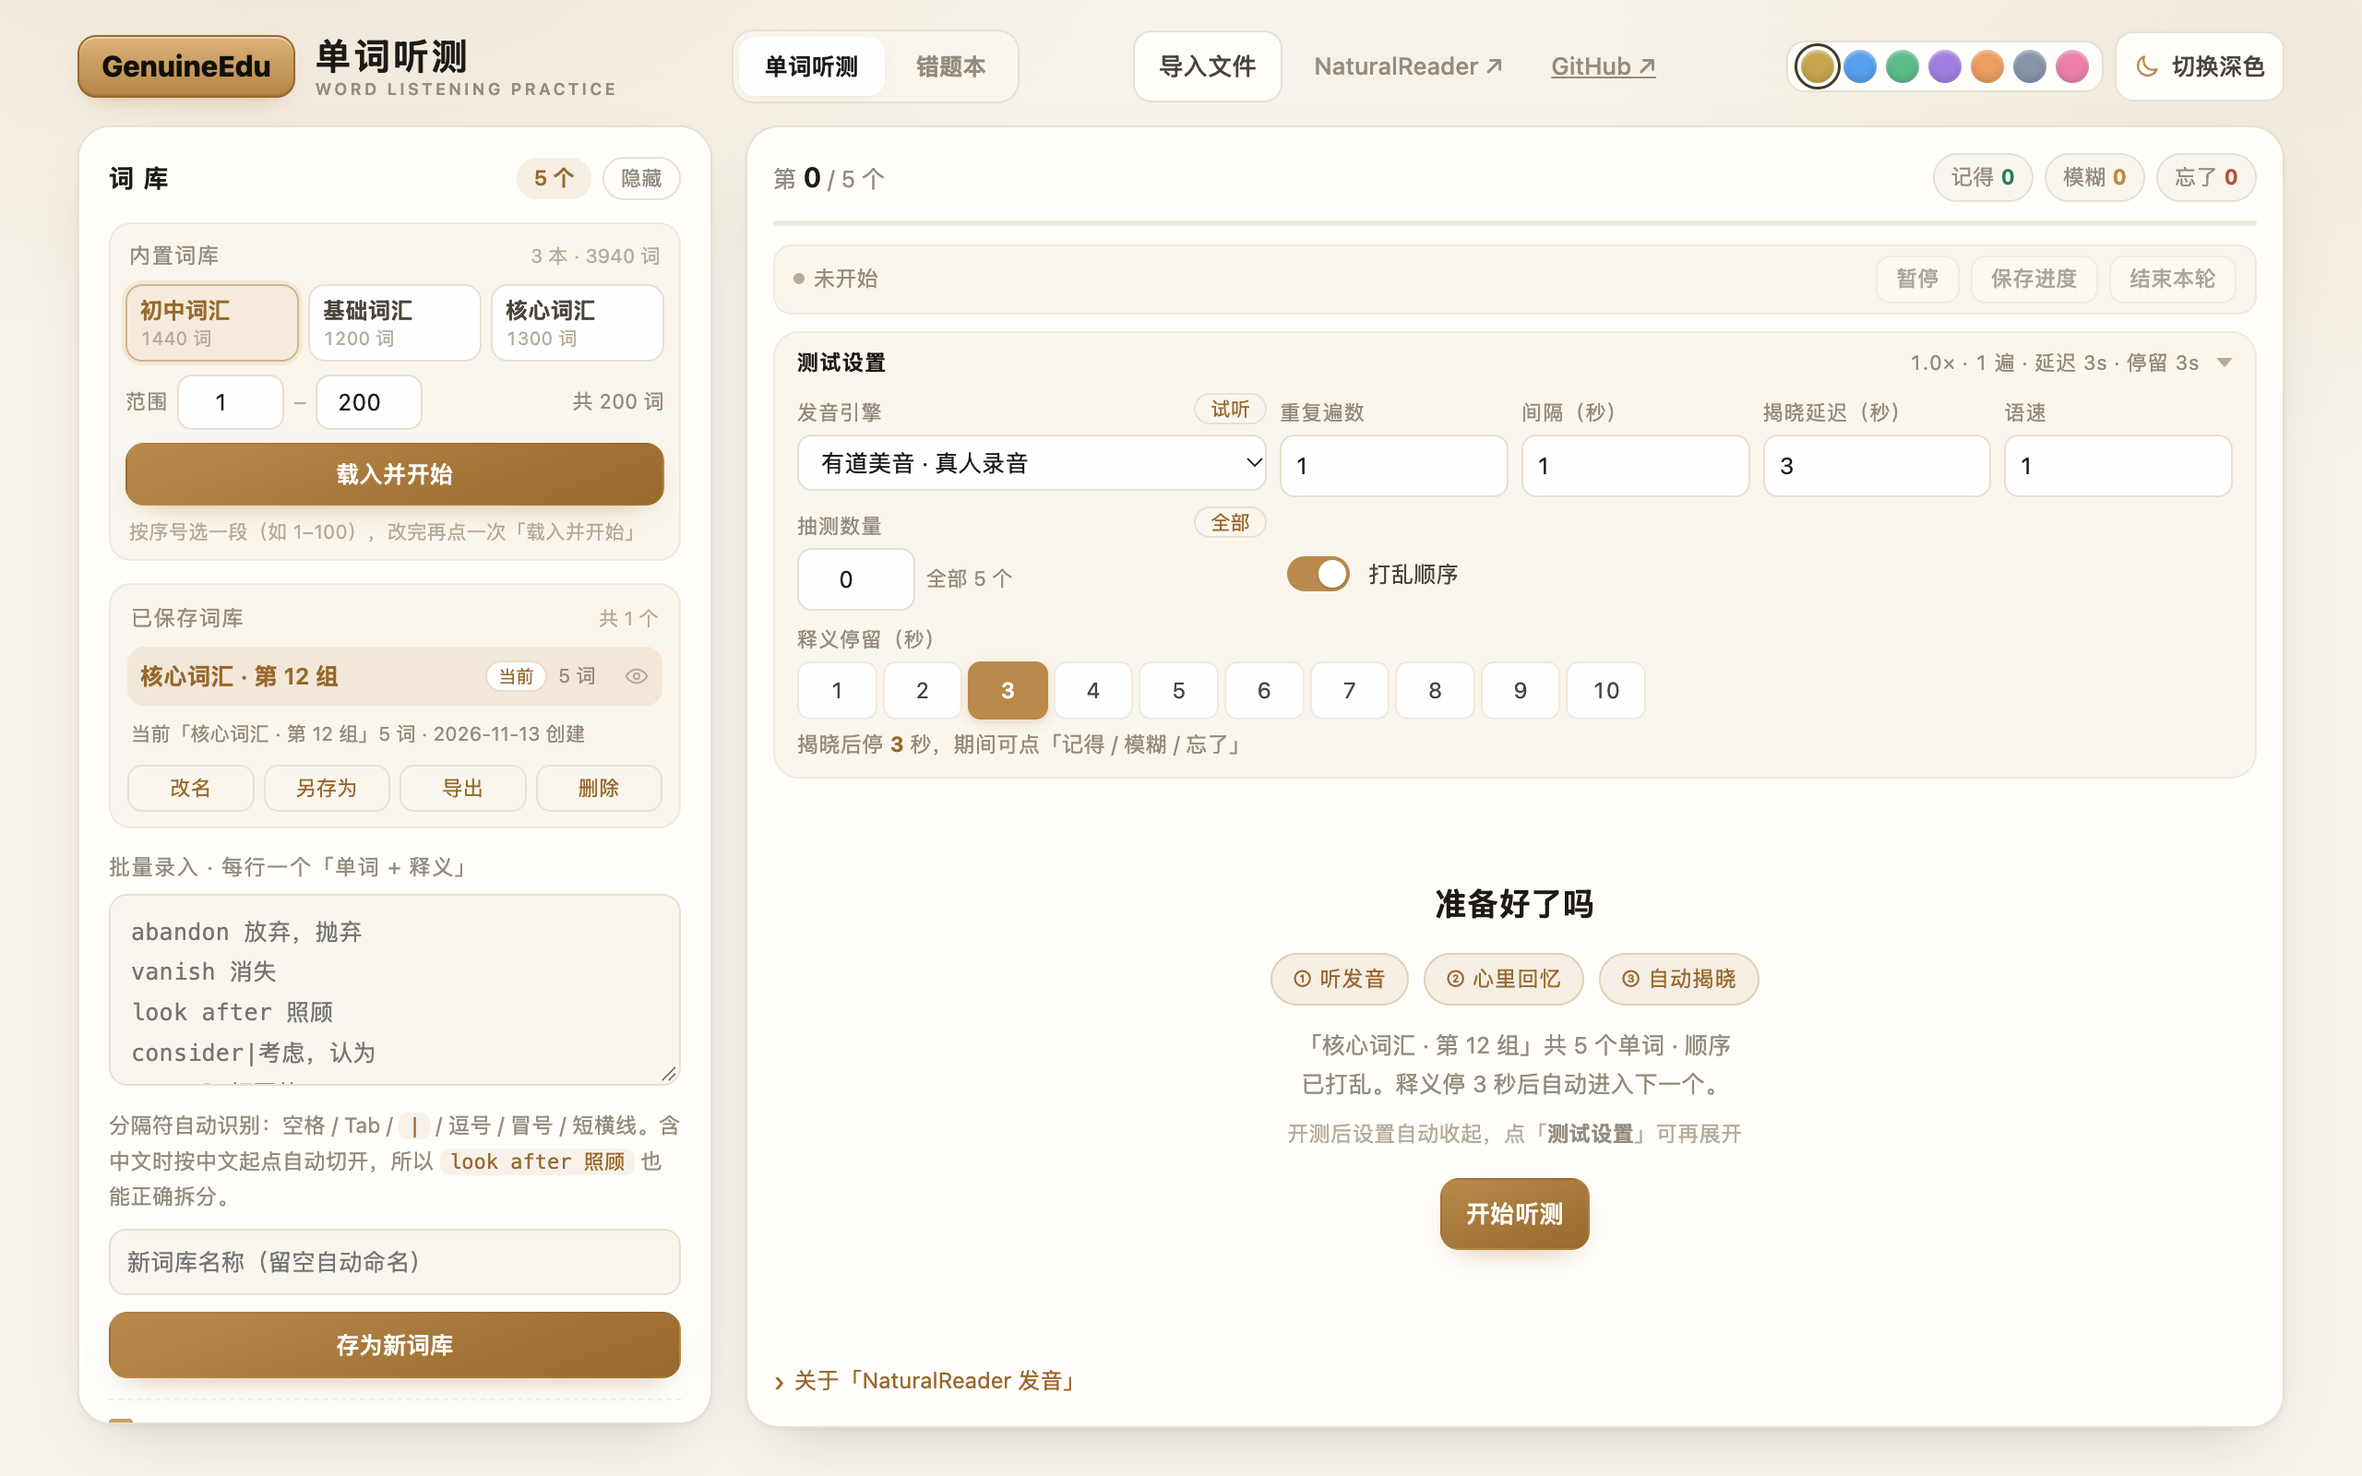
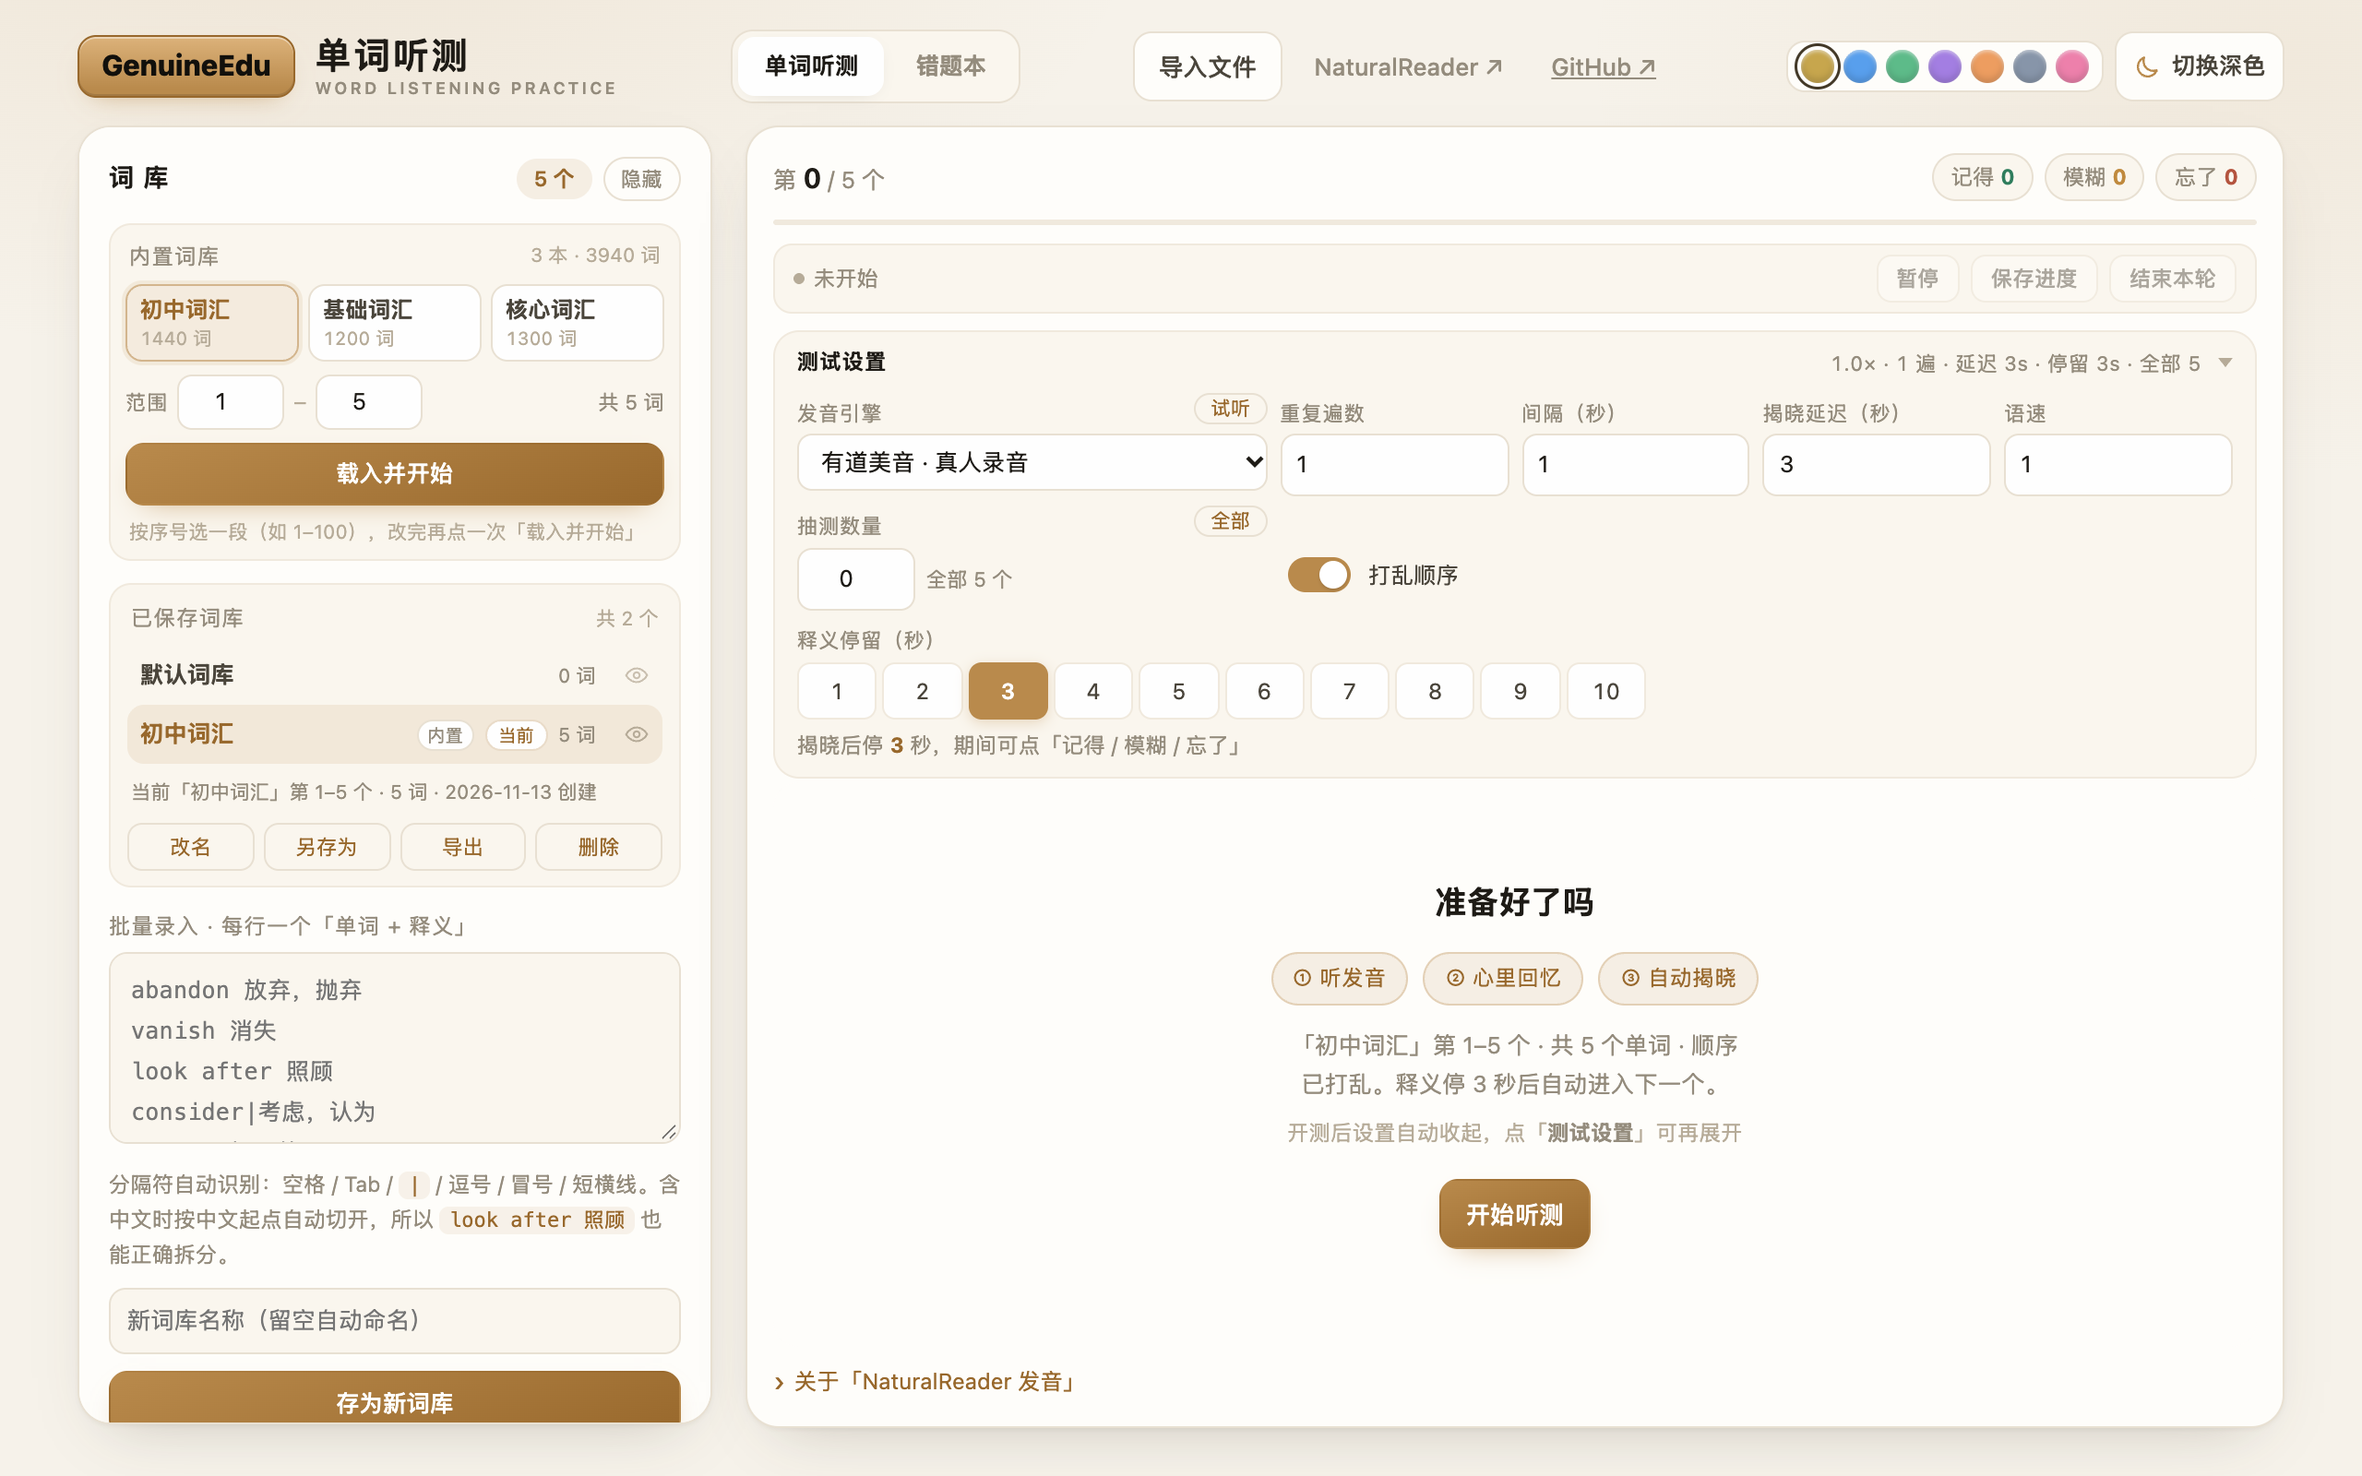
feat(settings): 内置词库的范围直接驱动右侧「测试设置」——改范围/换书即时生效，抽测数量上限收到范围大小
- 新增 poolSize()/effCount()：内置词库以「范围」为准，自定义词库以词库词数为准；测到一半不改口径
- 改范围即时重切片并刷新列表、词库信息、门板文案、「共 N 个」，不必先点「载入并开始」
- 抽测数量提示改为 全部 N 个 / 抽 n / N / 全抽 N 个；输入框 max 与显示值同步，范围临时收窄只封顶不覆盖用户填过的数，范围放大后原值回来
- 折叠标题摘要追加「· 全部 N / · 抽 n/N」，收起也能看到这轮抽多少
- 点书即按整本载入并切过去（开测中会先确认）；从「已保存词库」点回内置书时，上方选中的书与范围自动对齐
- 测试进行中改范围会退回本轮实际范围并提示，避免队列与口径不一致
- README 补充联动说明；重拍 preview / demo 两张配图

diff --git a/index.html b/index.html
@@ -1709,6 +1709,90 @@ function paintBiCount() {
   const mn = $("#biN");
   if (mn) mn.textContent = r.n ? "共 " + (r.b - r.a + 1) + " 词" : "";
 }
+/** 当前书 + 当前范围切出来的那一段词 */
+function biSlice() {
+  const book = BUILTIN[biBookIndex()];
+  if (!book) return { book: null, r: { a: 1, b: 0, n: 0 }, list: [] };
+  const r = biRange();
+  return {
+    book: book, r: r,
+    list: book.words.slice(r.a - 1, r.b).map(function (w) { return { w: w.w, d: w.d, x: w.x }; })
+  };
+}
+/** 这一轮实际会考到的词池：内置词库跟着「范围」走 ——
+ *  右侧「抽测数量」的总数、「共 N 个」都按这个算，范围一改就跟着改 */
+function poolSize() {
+  if (started && !finished) return words.length;   // 测到一半不改口径，以免总数和队列对不上
+  const lib = activeLib();
+  if (lib && lib.id === "bi:" + biBookIndex() && BUILTIN.length) {
+    const r = biRange();
+    if (r.n) return r.b - r.a + 1;
+  }
+  return words.length;
+}
+/** 抽测数量真正生效的值：不能超过本轮范围。
+ *  注意 cfg.count 里存的是用户填的「意图」，不因为范围临时收窄就被改掉 ——
+ *  下次范围放大，原来的数量还会回来 */
+function effCount() {
+  const size = poolSize();
+  const n = Math.max(0, parseInt(cfg.count, 10) || 0);
+  return size > 0 && n > size ? size : n;
+}
+/** 让左栏「内置词库」面板跟着当前词库走：
+ *  从「已保存词库」里点回某本内置书、或刷新后重新打开，选中的书和范围都对得上 */
+function syncPanelToLib() {
+  const lib = activeLib();
+  const m = lib && /^bi:(\d+)$/.exec(lib.id);
+  if (!m) return;
+  const i = Number(m[1]);
+  if (!(i >= 0 && i < BUILTIN.length)) return;
+  cfg.biBook = i;
+  if (lib.range) { cfg.biFrom = lib.range[0]; cfg.biTo = lib.range[1]; }
+  saveCfg();
+  renderBuiltin();
+}
+/** 改范围立刻把词库内容换成新范围（只在正用着这本内置词库时动手），
+ *  否则左边词数、右边总数、门板文案会各说各话 */
+function applyBuiltinRange() {
+  if (started && !finished) return;                  // 正在测就别动词库
+  const id = "bi:" + biBookIndex();
+  if (activeId !== id) return;                       // 只有正用着这本才跟着改
+  const lib = libs.find(function (l) { return l.id === id; });
+  if (!lib) return;
+  const s = biSlice();
+  if (!s.list.length) return;
+  lib.name = s.book.name;
+  lib.words = s.list;
+  lib.range = [s.r.a, s.r.b];
+  words = lib.words;
+  persistLibs();
+  renderLibs();
+  resetRoundUI();                                    // 里面会把右侧设置一起刷新
+}
+/** 范围/选书改动后的统一收尾：刷新左栏数字 + 右侧设置 + 门板文案 */
+function biEdited(force) {
+  renderBuiltin(force);        // 回写输入框（越界收敛）并更新「共 N 词」
+  if (started && !finished) {
+    // 正在测：本轮词库不能悄悄换掉，把范围退回这一轮实际在用的那段
+    const lib = activeLib();
+    if (lib && lib.range) {
+      cfg.biFrom = lib.range[0]; cfg.biTo = lib.range[1]; saveCfg();
+      renderBuiltin(true);
+    }
+    paintCountTip(); paintSetSum(); syncGate();
+    toast("测试进行中，范围先不改；结束后再调");
+    return;
+  }
+  const id = "bi:" + biBookIndex();
+  const s = biSlice();
+  if (s.list.length) {
+    if (activeId === id) applyBuiltinRange();   // 正用着这本 → 词库内容跟着换
+    else loadBuiltin(false, true);              // 还没载入过 → 直接按范围切进来（不弹提示）
+  }
+  paintCountTip();
+  paintSetSum();
+  syncGate();
+}
 function renderBuiltin(force) {
   const box = $("#biBooks");
   if (!box || !BUILTIN.length) return;
@@ -1727,8 +1811,9 @@ function renderBuiltin(force) {
   const tot = $("#biTotal");
   if (tot) tot.textContent = BUILTIN.length + " 本 · " + BUILTIN.reduce((s, b) => s + b.words.length, 0) + " 词";
 }
-/** 按当前书 + 范围切一段词，做成（或更新）内置词库并切过去 */
-function loadBuiltin(startNow) {
+/** 按当前书 + 范围切一段词，做成（或更新）内置词库并切过去
+ *  quiet：改范围时的静默载入，不弹 toast（免得每敲一次就提示一遍） */
+function loadBuiltin(startNow, quiet) {
   const book = BUILTIN[biBookIndex()];
   if (!book) { toast("内置词库没有加载成功，请刷新页面"); return; }
   const r = biRange();
@@ -1752,7 +1837,8 @@ function loadBuiltin(startNow) {
   renderLibs();
   renderBuiltin();
   resetRoundUI();
-  toast("已载入「" + book.name + "」第 " + r.a + "–" + r.b + " 个 · " + slice.length + " 词");
+  syncSettingsUI();            // 右侧设置（抽测数量等）同步成新范围的数字
+  if (!quiet) toast("已载入「" + book.name + "」第 " + r.a + "–" + r.b + " 个 · " + slice.length + " 词");
   if (startNow) startSession();
 }
 
@@ -1920,6 +2006,7 @@ function switchLib(id) {
   words = l.words;
   try { localStorage.setItem(LS.active, activeId); } catch (e) { }
   renderLibs();
+  syncPanelToLib();          // 点回内置书时，上面选中的书与范围跟着对
   resetRoundUI();
   toast("已切换到「" + l.name + "」· " + words.length + " 词");
 }
@@ -3286,7 +3373,7 @@ function startSession(onlyWrong) {
     if (!pool.length) { toast("没有标记为「模糊 / 忘了」的单词"); return; }
   }
   // 抽测数量：先随机抽样，再按设置决定是否打乱顺序
-  const want = Math.max(0, parseInt(cfg.count, 10) || 0);
+  const want = effCount();
   if (want > 0 && want < pool.length) {
     pool = shuffleArr(pool.slice()).slice(0, want);
     pool.sort((a, b) => a - b);        // 抽样后恢复词库原序，保证打乱开关才是唯一变量
@@ -3739,7 +3826,15 @@ function paintSetSum() {
   const rate = r === Math.round(r) ? r.toFixed(1) : String(Math.round(r * 100) / 100);
   const d = Number(cfg.delay);
   const delay = isFinite(d) ? (d === Math.round(d) ? String(d) : String(Math.round(d * 10) / 10)) : "–";
-  el.textContent = rate + "× · " + (parseInt(cfg.repeat, 10) || 1) + " 遍 · 延迟 " + delay + "s · 停留 " + staySec() + "s";
+  el.textContent = rate + "× · " + (parseInt(cfg.repeat, 10) || 1) + " 遍 · 延迟 " + delay + "s · 停留 " + staySec() + "s" + countSum();
+}
+/** 折叠时也要能看出这轮抽多少个 —— 跟着范围走 */
+function countSum() {
+  const size = poolSize();
+  if (!size) return "";
+  const n = effCount();
+  if (!n || n >= size) return " · 全部 " + size;
+  return " · 抽 " + n + "/" + size;
 }
 
 function syncSettingsUI() {
@@ -3766,20 +3861,24 @@ function syncSettingsUI() {
   paintCountTip();
   paintSetSum();
 }
-/** 抽测数量提示：库里有几个、这轮会抽几个 */
+/** 抽测数量提示：本轮范围有几个、这轮会抽几个 */
 function paintCountTip() {
   const tip = $("#countTip");
   if (!tip) return;
-  const n = Number(cfg.count) || 0;
-  if (!n) {
-    tip.textContent = words.length ? "全部 " + words.length + " 个" : "0 = 全部";
-    return;
+  const size = poolSize();
+  const n = effCount();
+  const inp = $("#inpCount");
+  if (inp) {
+    // 输入框与上下箭头都以本轮范围为准，别让它指着一个范围外的数
+    inp.max = String(size > 0 ? size : 999);
+    inp.title = "每轮从当前范围（" + (size || 0) + " 个）里抽几个，0 = 全部";
+    // 框里显示的是「真正会抽几个」；正在打字时不动，免得打断输入
+    if (document.activeElement !== inp && inp.value !== String(n)) inp.value = String(n);
   }
-  if (words.length && n >= words.length) {
-    tip.textContent = "只有 " + words.length + " 个，全抽";
-  } else {
-    tip.textContent = "抽 " + n + " / " + words.length;
-  }
+  if (!size) { tip.textContent = n ? "抽 " + n + " 个" : "0 = 全部"; return; }
+  if (!n) tip.textContent = "全部 " + size + " 个";
+  else if (n >= size) tip.textContent = "全抽 " + size + " 个";
+  else tip.textContent = "抽 " + n + " / " + size;
 }
 
 function fillVoiceSelect() {
@@ -3879,16 +3978,18 @@ function syncGate() {
     desc.textContent = "词库还是空的：左边「内置词库」里选一本词汇书挑个范围，或把单词粘到左边存好。";
   } else {
     btn.textContent = "开始听测";
-    const n = Number(cfg.count) || 0;
+    const n = effCount();
+    const size = poolSize();
     const lib = activeLib() || {};
     let s = "「" + lib.name + "」" + (lib.range ? "第 " + lib.range[0] + "–" + lib.range[1] + " 个 · " : "") +
-      "共 " + words.length + " 个单词";
-    if (n > 0 && n < words.length) s += "，本轮抽 " + n + " 个";
+      "共 " + size + " 个单词";
+    if (n > 0 && n < size) s += "，本轮抽 " + n + " 个";
     s += cfg.shuffle ? " · 顺序已打乱。" : " · 按词库顺序。";
     s += "释义停 " + staySec() + " 秒后自动进入下一个。";
     desc.textContent = s;
   }
   paintCountTip();
+  paintSetSum();
 }
 
 let toastTimer = null;
@@ -4787,21 +4888,26 @@ function bind() {
       if (!b || b.dataset.bi == null) return;
       const i = Number(b.dataset.bi);
       if (i === biBookIndex()) return;
+      // 测到一半换书等于放弃本轮，先拦一道
+      if (started && !finished && queue.length &&
+        !confirm("正在测试中，切到「" + BUILTIN[i].name + "」会结束本轮（进度不会保存）。确定切换？")) {
+        renderBuiltin(); return;
+      }
       cfg.biBook = i;
       cfg.biFrom = 1;
       cfg.biTo = 0;                 // 换书就回到「整本」，再让用户自己收窄
       saveCfg();
-      renderBuiltin();
+      loadBuiltin(false);           // 立刻按整本载入并切过去，右侧总数跟着换书变
     };
   }
   const biFrom = $("#biFrom"), biTo = $("#biTo");
   if (biFrom) {
-    biFrom.oninput = () => { cfg.biFrom = biFrom.value; saveCfg(); paintBiCount(); };
-    biFrom.onchange = () => { cfg.biFrom = biFrom.value; saveCfg(); renderBuiltin(true); };
+    biFrom.oninput = () => { cfg.biFrom = biFrom.value; saveCfg(); paintBiCount(); paintCountTip(); };
+    biFrom.onchange = () => { cfg.biFrom = biFrom.value; saveCfg(); biEdited(true); };
   }
   if (biTo) {
-    biTo.oninput = () => { cfg.biTo = biTo.value; saveCfg(); paintBiCount(); };
-    biTo.onchange = () => { cfg.biTo = biTo.value; saveCfg(); renderBuiltin(true); };
+    biTo.oninput = () => { cfg.biTo = biTo.value; saveCfg(); paintBiCount(); paintCountTip(); };
+    biTo.onchange = () => { cfg.biTo = biTo.value; saveCfg(); biEdited(true); };
   }
   const biLoad = $("#btnBiLoad");
   if (biLoad) {
@@ -4962,12 +5068,15 @@ function bind() {
     cfg.repeat = clamp(e.target.value, 1, 9, 1); saveCfg(); syncSettingsUI(); paintStage();
   };
   $("#inpCount").onchange = e => {
-    cfg.count = clamp(e.target.value, 0, 999, 0);
+    // 上限就是本轮范围的大小，别让「抽 300 / 32」这种数字留在框里
+    const size = poolSize();
+    cfg.count = clamp(e.target.value, 0, size > 0 ? size : 999, 0);
     saveCfg(); syncSettingsUI(); syncGate();
   };
   $("#btnCountAll").onclick = () => {
     cfg.count = 0; saveCfg(); syncSettingsUI(); syncGate();
-    toast("每轮抽测整个词库");
+    const size = poolSize();
+    toast(size ? "每轮抽测当前范围全部 " + size + " 个" : "每轮抽测整个词库");
   };
   $("#inpGap").onchange = e => {
     cfg.gap = clamp(e.target.value, 0, 9, 1); saveCfg(); syncSettingsUI();
@@ -6543,6 +6652,7 @@ function init() {
   setFold(false);
   renderLibs();
   renderBuiltin();   // 内置词库：三本书 + 上次选的范围
+  syncPanelToLib();  // 上次用的就是内置词库时，把书和范围对齐到它
   paintList();
   resetCounter();
   syncGate();
